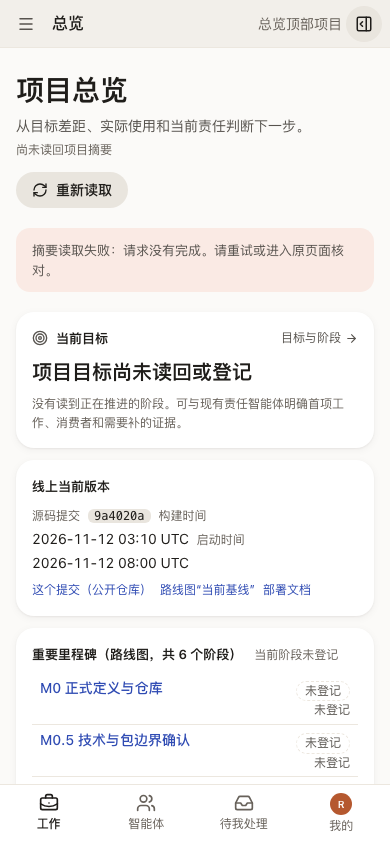
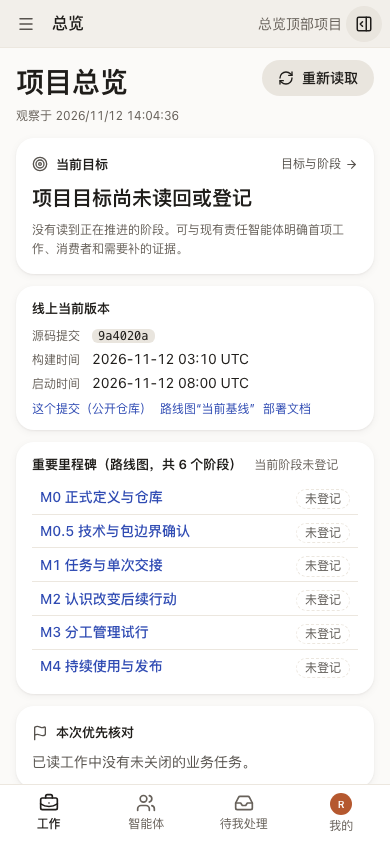
总览顶部返工：390×844 首屏含全部 6 个阶段；已退出/已回看经真实 stage.review.correct 可达

diff --git a/apps/workbench/src/features/overview/MilestonesBlock.tsx b/apps/workbench/src/features/overview/MilestonesBlock.tsx
@@ -5,7 +5,7 @@ import { useProjectQuery } from "../../shared/query";
 import { href } from "../../shared/ui/shared";
 import { NOT_REGISTERED, milestoneRows, versionView } from "./milestonesPresentation";
 
-const card = "flex min-w-0 flex-col gap-2 rounded-xl bg-raised p-4 shadow-sm compact:p-5";
+const card = "flex min-w-0 flex-col gap-1.5 rounded-xl bg-raised px-4 py-3 shadow-sm compact:gap-2 compact:p-5";
 const muted = "text-caption text-muted-foreground";
 const heading = "text-label font-semibold text-foreground";
 const toneClass = { done: "bg-success-soft text-success", progress: "bg-selected text-primary", partial: "bg-warning-soft text-warning", idle: "bg-field text-text-secondary", none: "border border-dashed border-border text-text-secondary" } as const;
@@ -21,7 +21,7 @@ export function MilestonesBlock({ projectId, active }: { projectId: string; acti
       <section className={card} aria-label="线上当前版本" data-overview-version="">
         <h2 className={heading}>线上当前版本</h2>
         {version.isPending && <p className={muted} role="status">正在读取版本…</p>}
-        {!version.isPending && <dl className="m-0 flex flex-wrap items-baseline gap-x-2 gap-y-0.5 text-small @2xl:grid @2xl:grid-cols-[auto_1fr] @2xl:gap-x-3">
+        {!version.isPending && <dl className="m-0 grid grid-cols-[auto_minmax(0,1fr)] items-baseline gap-x-3 gap-y-0.5 text-small">
           <dt className={muted}>源码提交</dt><dd className="m-0">{v.readable ? <code className="rounded-sm bg-field px-1.5 font-mono text-caption">{v.commit}</code> : <span className="text-text-secondary">{v.commit}</span>}</dd>
           <dt className={muted}>构建时间</dt><dd className="m-0 text-foreground">{v.builtAt}</dd>
           <dt className={muted}>启动时间</dt><dd className="m-0 text-foreground">{v.startedAt}</dd>
@@ -39,14 +39,14 @@ export function MilestonesBlock({ projectId, active }: { projectId: string; acti
             <span>阶段</span><span>要交付什么</span><span>退出证据</span><span>状态</span><span>节点日期</span></div>
           <ol className="m-0 flex list-none flex-col p-0">
             {rows.map(row => <li key={row.id} data-phase={row.id} data-current={row.current ? "true" : undefined} aria-current={row.current ? "step" : undefined}
-              className={`grid grid-cols-[minmax(0,1fr)_auto] gap-x-2 border-t border-border px-2 py-1 first:border-t-0 @3xl:grid-cols-[9rem_minmax(0,1.2fr)_minmax(0,1.5fr)_6rem_7rem] @3xl:gap-x-3 ${row.current ? "bg-selected shadow-[inset_3px_0_0_var(--accent)]" : ""}`}>
+              className={`grid grid-cols-[minmax(0,1fr)_auto] items-center @sm:grid-cols-[minmax(0,1fr)_auto_7.5rem] gap-x-2 border-t border-border px-2 py-1 first:border-t-0 @3xl:grid-cols-[9rem_minmax(0,1.2fr)_minmax(0,1.5fr)_6rem_7rem] @3xl:gap-x-3 ${row.current ? "bg-selected shadow-[inset_3px_0_0_var(--accent)]" : ""}`}>
               <span className="col-start-1 row-start-1 min-w-0 text-small font-medium @3xl:col-start-1 @3xl:row-start-1">
                 <a className="text-primary hover:underline" href={href(projectId, "journey")}>{row.id} {row.title}</a>
                 {row.current && <span className="ml-1 text-caption font-semibold text-primary">当前</span>}</span>
               <span className={`${row.current ? "" : "hidden @3xl:block "}col-start-1 row-start-2 line-clamp-1 text-caption text-text-secondary @3xl:col-start-2 @3xl:row-start-1 @3xl:line-clamp-2 @3xl:text-small`}><span className="@3xl:hidden">交付：</span>{row.deliver}</span>
-              <span className={`${row.current ? "" : "hidden @3xl:block "}col-span-2 col-start-1 row-start-3 line-clamp-1 text-caption text-text-secondary @3xl:col-span-1 @3xl:col-start-3 @3xl:row-start-1 @3xl:line-clamp-2 @3xl:text-small`}><span className="@3xl:hidden">退出证据：</span>{row.exit}</span>
+              <span className={`${row.current ? "" : "hidden @3xl:block "}col-span-2 @sm:col-span-3 col-start-1 row-start-3 line-clamp-1 text-caption text-text-secondary @3xl:col-span-1 @3xl:col-start-3 @3xl:row-start-1 @3xl:line-clamp-2 @3xl:text-small`}><span className="@3xl:hidden">退出证据：</span>{row.exit}</span>
               <span className="col-start-2 row-start-1 justify-self-end @3xl:col-start-4 @3xl:row-start-1 @3xl:justify-self-start"><span className={`inline-block whitespace-nowrap rounded-full px-2 text-caption ${toneClass[row.tone]}`}>{row.status}</span></span>
-              <span className="col-start-2 row-start-2 justify-self-end whitespace-nowrap text-caption text-text-secondary @3xl:col-start-5 @3xl:row-start-1 @3xl:justify-self-start @3xl:text-small">{row.date === NOT_REGISTERED ? NOT_REGISTERED : row.date}</span>
+              <span className="hidden @sm:block @sm:col-start-3 @sm:row-start-1 col-start-2 row-start-2 justify-self-end whitespace-nowrap text-caption text-text-secondary @3xl:col-start-5 @3xl:row-start-1 @3xl:justify-self-start @3xl:text-small">{row.date === NOT_REGISTERED ? NOT_REGISTERED : row.date}</span>
             </li>)}
           </ol></>}
       </section>

diff --git a/apps/workbench/test/overview-top-browser.test.ts b/apps/workbench/test/overview-top-browser.test.ts
@@ -38,7 +38,7 @@ test("overview top: goal, version, six phases with one current, the three blocks
           else value = { commit: "9a4020a5886be01b2d74fe850687ca7355b2d226", builtAt: "2026-11-12T03:10:00.000Z", startedAt: stamp };
         }
         else if (url.pathname === base) value = { id: projectId, title: "总览顶部项目", createdAt: stamp };
-        else if (url.pathname === `${base}/impacts`) value = [];
+        else if (url.pathname === `${base}/impacts` || url.pathname === `${base}/resident-queues`) value = [];
         else if (url.pathname === `${base}/goals`) value = { items: mode === "day1" ? [] : [{ projectId, id: goalId, version: 1, outcome: "让使用者一眼看清项目要去哪里", constraints: "数据来自服务", consumer: "使用者",
           authority: "负责人", scope: "总览", owner: "o", createdAt: stamp, actorId: "reader" }], nextCursor: null };
         else if (url.pathname === `${base}/stages`) value = mode === "day1" ? [] : [{ projectId, id: stageId, goalId, version: 2, state: "active", deliverable: "总览顶部", learningQuestion: "看得清吗", createdAt: stamp, actorId: "reader" }];
@@ -102,15 +102,13 @@ test("overview top: goal, version, six phases with one current, the three blocks
       const links = await page.locator("[data-overview-version] a").evaluateAll(items => items.map(item => item.getAttribute("href")));
       assert.deepEqual(links, ["https://github.com/cyl19970726/evoLoop/commit/9a4020a5886be01b2d74fe850687ca7355b2d226", "https://github.com/cyl19970726/evoLoop/blob/main/docs/roadmap.md#当前基线", "https://github.com/cyl19970726/evoLoop/blob/main/docs/development/local-run.md"]);
       assert.ok((await page.locator("[data-phase][data-current]").innerText()).includes("退出证据"), "the current phase shows its exit evidence");
-      for (const word of ["部分成立", "已退出", "进行中", "未开始", "回看于 2026-11-10", "未登记"]) assert.ok(text.includes(word), word);
+      for (const word of ["部分成立", "已退出", "进行中", "未开始", ...(width >= 1000 ? ["回看于 2026-11-10", "未登记"] : [])]) assert.ok(text.includes(word), word);
       if (shots) { await page.screenshot({ path: `${shots}/overview-top-${width}.png` }); await page.screenshot({ path: `${shots}/overview-top-${width}-full.png`, fullPage: true }); }
       const m = await measure(page, `linked ${width}x${height}`);
       assert.equal(m.scrollWidth <= m.clientWidth, true, `no horizontal overflow at ${width}`);
       assert.equal(m.pastRightEdge, 0, "nothing past the right edge");
-      // 1440x900: everything through the last phase is on the first screen. 390x844: the page's own header, the goal card and the version fill the screen
-      // (the design drew them smaller than the real page: docs/frontend/overview-top-design.md), so the milestones start below the fold and all six rows fit in one more screen.
-      if (width >= 1000) assert.ok(m.lastPhaseBottom <= height, `all six phases are on the first screen at ${width}x${height} (last bottom ${m.lastPhaseBottom})`);
-      else { assert.ok(m.versionBottom! <= height, "the goal and version are on the first screen on a phone"); assert.ok(m.lastPhaseBottom <= height * 2, "the six phases fit in the second screen"); }
+            // The phone's bottom tab bar (about 64px) covers the lower edge of the screen, so "on the first screen" means above it.
+      assert.ok(m.lastPhaseBottom <= height - (width >= 1000 ? 0 : 64), `all six phases are on the first screen at ${width}x${height} (last bottom ${m.lastPhaseBottom})`);
       assert.ok(m.goalBottom! < m.versionBottom! + 1, "the goal is above the version and milestones");
       assert.ok(m.attentionTop >= m.milestonesBottom!, "the three blocks sit below the milestones");
       for (const label of ["本次优先核对", "最近使用反馈"]) assert.ok(await page.getByLabel(label).count() === 1, label);
@@ -120,7 +118,7 @@ test("overview top: goal, version, six phases with one current, the three blocks
     const day1 = await open(390, 844, "day1");
     assert.equal(await day1.locator("[data-overview-milestones] [data-current='true']").count(), 0, "no guess at a current phase");
     assert.equal(await day1.locator("[data-current-note]").innerText(), "当前阶段未登记");
-    assert.equal((await day1.locator("[data-overview-milestones]").innerText()).match(/未登记/g)!.length >= 12, true, "status and date of all six phases say 未登记");
+    assert.equal((await day1.locator("[data-overview-milestones]").innerText()).match(/未登记/g)!.length >= 6, true, "the status of all six phases says 未登记");
     assert.doesNotMatch(await day1.locator("[data-overview-milestones]").innerText(), /部分成立|已退出|进行中|回看于/);
     await measure(day1, "day1 390x844");
     if (shots) await day1.screenshot({ path: `${shots}/overview-top-390-day1.png` });

diff --git a/tests/integration/stage-phase-key.test.ts b/tests/integration/stage-phase-key.test.ts
@@ -48,6 +48,21 @@ test("a stage is linked to a roadmap phase by review permission only; the link i
   const m1 = links.find(item => item.phaseKey === "M1")!;
   assert.equal(m1.state, "reviewed"); assert.equal(m1.review?.adopted, "The deliverable works"); assert.ok(m1.review?.createdAt);
   assert.equal(milestoneStatus(m1, m1.review), "partial", "an adopted result with a gap is partial");
+  // Reachable through the real commands: a correction that says nothing is refused and no gap is left reads 已退出; reviews are append-only.
+  const [original] = await workflow.listStageReviews(reviewer, projectId, first);
+  const stageNow = await workflow.getStage(reviewer, projectId, first);
+  await applied(reviewer, { type: "stage.review.correct", stageId: first, expectedVersion: stageNow.version, supersedesReviewId: original!.id, adopted: "The deliverable works",
+    rejected: "无", gap: "没有", nextChoice: "continue", evidence: "e", reason: "the gap was closed" });
+  const corrected = (await workflow.listStagePhaseLinks(reviewer, projectId)).find(item => item.phaseKey === "M1")!;
+  assert.equal(corrected.review?.gap, "没有");
+  assert.equal(milestoneStatus(corrected, corrected.review), "exited", "a real stage.review.correct that names no rejection and no gap reaches 已退出");
+  assert.equal((await workflow.listStageReviews(reviewer, projectId, first)).length, 2, "the original review is kept");
+  // The reverse: a real review that adopted nothing ("无") reads 已回看.
+  await applied(reviewer, { type: "stage.review.correct", stageId: first, expectedVersion: (await workflow.getStage(reviewer, projectId, first)).version,
+    supersedesReviewId: (await workflow.listStageReviews(reviewer, projectId, first)).find(r => r.supersedesReviewId)!.id, adopted: "无", rejected: "Refused it", gap: "A gap",
+    nextChoice: "stop", evidence: "e", reason: "nothing was adopted" });
+  const reread = (await workflow.listStagePhaseLinks(reviewer, projectId)).find(item => item.phaseKey === "M1")!;
+  assert.equal(milestoneStatus(reread, reread.review), "reviewed", "a real review that adopted nothing is only 已回看");
   // Re-linking changes the phase of the same stage; null clears it; the stage itself is untouched.
   await applied(reviewer, { type: "stage.phaseKey.set", stageId: first, phaseKey: "M2", reason: "remap" });
   assert.deepEqual((await workflow.listStagePhaseLinks(reviewer, projectId)).map(item => item.phaseKey), ["M0.5", "M2"]);

diff --git a/apps/workbench/src/features/overview/ProjectContext.tsx b/apps/workbench/src/features/overview/ProjectContext.tsx
@@ -147,9 +147,9 @@ export function ProjectContext({ token, projectId, refresh, active }: { token: s
           {stages.map(item => <option key={item.id} value={item.id}>{item.deliverable}</option>)}
         </Select>
       </label>}
-      {stage ? <dl className="grid gap-3 compact:grid-cols-2">
-        <div><dt className={muted}>阶段交付</dt><dd className="m-0 text-small text-foreground">{stage.deliverable}</dd></div>
-        <div><dt className={muted}>要弄清的问题</dt><dd className="m-0 text-small text-foreground">{stage.learningQuestion}</dd></div>
+      {stage ? <dl className="grid grid-cols-2 gap-x-3 gap-y-1 compact:gap-3">
+        <div><dt className={muted}>阶段交付</dt><dd className="m-0 line-clamp-2 text-small text-foreground compact:line-clamp-none">{stage.deliverable}</dd></div>
+        <div><dt className={muted}>要弄清的问题</dt><dd className="m-0 line-clamp-2 text-small text-foreground compact:line-clamp-none">{stage.learningQuestion}</dd></div>
       </dl> : <p className={muted}>{value && !value.goalProblem && stages.length === 0 ? "没有读到正在推进的阶段。可与现有责任智能体明确首项工作、消费者和需要补的证据。" : "按真实阶段关系阅读，不从最近任务或队列推定项目目标。"}</p>}
       {goal && <details className="text-small"><summary className="cursor-pointer text-text-secondary">目标的消费者、约束与范围</summary><div className="mt-2 flex flex-col gap-1 text-text-secondary"><p>消费者：{goal.consumer} · 责任：{isRoleOwnerId(goal.owner) ? <RoleName projectId={projectId} roleId={goal.owner} /> : goal.owner}</p><p>{goal.constraints}</p><p>{goal.scope}</p></div></details>}
       {value?.goalProblem && <div className={problem} role="status">目标与阶段读取未完成，已读工作仍可查看。<details><summary className="cursor-pointer">读取原因</summary>{value.goalProblem}</details></div>}

diff --git a/packages/contracts/src/milestones.ts b/packages/contracts/src/milestones.ts
@@ -12,6 +12,16 @@ export const milestoneStatusLabel: Record<MilestoneStatus, string> = {
 export interface MilestoneReview { adopted: string; rejected: string; gap: string; createdAt: string }
 
 /**
+ * `stage.review` / `stage.correct` require text in adopted, rejected and gap, so "nothing" can only be written as a word. A field that is just
+ * one of these markers (alone, ignoring spaces and a closing full stop) counts as empty; a sentence that merely contains one does not.
+ */
+const NONE_MARKERS = new Set(["无", "没有", "暂无", "无缺口", "无拒绝", "无遗漏", "none", "nil", "n/a", "na", "-", "—", "–"]);
+export function isNoneMarker(value: string): boolean {
+  const text = value.trim().replace(/[。.]+$/, "").trim().toLowerCase();
+  return text.length === 0 || NONE_MARKERS.has(text);
+}
+
+/**
  * A linked stage's milestone status, from the same fields the goals-and-stages page shows (its state and latest review).
  * `exited`: reviewed, something adopted, and neither a gap nor a rejection left. `partial`: something adopted and a gap or a rejection
  * remains. Any other reviewed stage is only 已回看: the conclusion is on the stage page, nothing is inferred from it.
@@ -19,7 +29,7 @@ export interface MilestoneReview { adopted: string; rejected: string; gap: strin
 export function milestoneStatus(stage: { state: "proposed" | "active" | "reviewed" }, review: MilestoneReview | null): MilestoneStatus {
   if (stage.state === "proposed") return "not_started";
   if (stage.state === "active") return "in_progress";
-  const filled = (value: string | undefined) => !!value && value.trim().length > 0;
+  const filled = (value: string | undefined) => !!value && !isNoneMarker(value);
   if (review && filled(review.adopted)) return filled(review.gap) || filled(review.rejected) ? "partial" : "exited";
   return "reviewed";
 }

diff --git a/apps/workbench/src/features/overview/ProjectSummary.tsx b/apps/workbench/src/features/overview/ProjectSummary.tsx
@@ -200,11 +200,11 @@ export function ProjectSummary({ token, projectId, refresh, active }: { token: s
   const read = current ? `观察于 ${date(current.observedAt)}${stale ? " · 上次读回，当前状态待核对" : ""}` : pending ? "正在读取项目摘要…" : "尚未读回项目摘要";
   const empty = (text: string) => <p className={muted}>{text}</p>;
   const card = "flex min-w-0 flex-col rounded-xl bg-raised px-4 py-3 shadow-sm compact:px-5";
-  return <div data-ui="" className="project-overview mx-auto flex w-full max-w-[980px] flex-col gap-5 px-4 py-5 compact:px-8 compact:py-7">
-    <header className="flex flex-wrap items-start justify-between gap-3">
+  return <div data-ui="" className="project-overview mx-auto flex w-full max-w-[980px] flex-col gap-3 px-4 py-3 compact:gap-5 compact:px-8 compact:py-7">
+    <header className="flex items-start justify-between gap-3 compact:flex-wrap">
       <div className="min-w-0">
         <h1 className="text-title font-semibold text-foreground" tabIndex={-1}>项目总览</h1>
-        <p className="mt-1 text-small text-text-secondary">从目标差距、实际使用和当前责任判断下一步。</p>
+        <p className="mt-1 hidden text-small text-text-secondary compact:block">从目标差距、实际使用和当前责任判断下一步。</p>
         <p className={cn(muted, "mt-1")}>{read}</p>
       </div>
       <Button onClick={() => setReread(value => value + 1)} disabled={pending}><RefreshCw aria-hidden="true" className={pending ? "animate-spin" : undefined} />重新读取</Button>

diff --git a/apps/coordinator/test/milestones.test.ts b/apps/coordinator/test/milestones.test.ts
@@ -29,6 +29,11 @@ test("exited needs something adopted and neither a gap nor a rejection; only a r
   assert.equal(milestoneStatus(reviewed, review("", "refused", "")), "reviewed", "only a rejection and nothing adopted is not an exit either");
   assert.equal(milestoneStatus(reviewed, review("  ", "", "")), "reviewed");
   assert.equal(milestoneStatus(reviewed, null), "reviewed");
+  // The commands require text in all three fields, so "nothing" is written as a word: those count as empty, and nothing else does.
+  for (const none of ["无", "没有", "暂无", "无。", " 无缺口 ", "None", "n/a", "N/A", "—", "-"]) assert.equal(milestoneStatus(reviewed, review("it works", none, none)), "exited", `"${none}" means none`);
+  assert.equal(milestoneStatus(reviewed, review("it works", "无", "没有完全解决，剩下一项")), "partial", "a sentence that merely starts with 没有 is a gap");
+  assert.equal(milestoneStatus(reviewed, review("it works", "Nothing refused", "None left")), "partial", "only the bare marker counts, not a sentence");
+  assert.equal(milestoneStatus(reviewed, review("无", "无", "无")), "reviewed", "nothing adopted is only 已回看");
   assert.equal(milestoneStatus({ state: "active" }, review("a", "", "")), "in_progress");
   assert.equal(milestoneStatus({ state: "proposed" }, null), "not_started");
 });

diff --git a/docs/frontend/overview-top-design.md b/docs/frontend/overview-top-design.md
@@ -36,7 +36,7 @@ Task `e5af6765`（2026-11-12 返工）。使用者要从总览一眼看清三件
 | 节点日期 | 关联阶段最近一次回看的日期（写作“回看于 日期”） | “未登记”；不从路线图的文字里推日期 |
 | 当前阶段 | 恰有一个关联阶段是 `active` 时，它对应的那一行 | 没有或有多个：不突出，页眉写“当前阶段未登记”，不猜 |
 
-**状态映射**（与目标与阶段页同一份数据，同一套词）：`proposed` → 未开始；`active` → 进行中；`reviewed` 且最近回看里 `adopted` 非空、`gap` 或 `rejected` 非空 → 部分成立；`reviewed` 且 `gap` 为空 → 已退出；其余 `reviewed` → 已回看（结论见阶段页）。“部分成立”只在回看记录真的写了采纳和缺口时才出现。
+**状态映射**（与目标与阶段页同一份数据，同一套词；需求 Session 已确认）：`proposed` → 未开始；`active` → 进行中；`reviewed` 且最近回看 `adopted` 非空、`gap` 与 `rejected` 都为空 → 已退出；`adopted` 非空且 `gap` 或 `rejected` 非空 → 部分成立；其余 `reviewed` → 已回看（结论见阶段页）。没有关联的阶段、或有多个进行中的阶段，一律写“未登记”，不猜。命令要求三项都有文字，“空”如何写见文末“‘已退出/已回看’如何经真实命令到达”。
 
 **新增只读投影** `GET /api/projects/:projectId/milestones`（项目读权限）：返回 `{ source: { commit }, phases: [{ id, title, deliver, exit, stage: { id, state, review: { adopted, gap, createdAt } } | null }] }`。路线图由服务启动时读取已部署目录里的 `docs/roadmap.md`（与版本接口同一提交），不放进文档表，也不在前端写死；页面和“目标与阶段”页读同一份阶段，所以两页不会各算一遍。
 
@@ -85,4 +85,11 @@ Task `e5af6765`（2026-11-12 返工）。使用者要从总览一眼看清三件
 
 ## 真实页面实测（实现后）
 
-真实页面截图与量到的数据：[1440 首屏](../assets/frontend-pages/overview-top-1440.png)、[1440 整页](../assets/frontend-pages/overview-top-1440-full.png)、[390 整页](../assets/frontend-pages/overview-top-390-full.png)、[390 第一天](../assets/frontend-pages/overview-top-390-day1.png)、[实测数据](../assets/frontend-pages/overview-top-real-measure.json)。1440×900：目标、版本和 6 个阶段都在首屏（最后一个阶段底边 781），无水平溢出。**与设计的差异**：390×844 里真实页面自带的页头、标题和目标卡片比设计图大（目标卡底边 533，设计图 136），版本在首屏，6 个阶段在第二屏内（最后一行底边 1089），没有做到“全部在首屏”；手机上只有当前阶段展开“交付/退出证据”。
+真实页面截图与量到的数据：[1440 首屏](../assets/frontend-pages/overview-top-1440.png)、[1440 整页](../assets/frontend-pages/overview-top-1440-full.png)、[390 首屏](../assets/frontend-pages/overview-top-390.png)、[390 整页](../assets/frontend-pages/overview-top-390-full.png)、[390 第一天](../assets/frontend-pages/overview-top-390-day1.png)、[实测数据](../assets/frontend-pages/overview-top-real-measure.json)。
+
+- 1440×900：目标、版本、6 个阶段都在首屏（最后阶段底边 624），无水平溢出。
+- 390×844：目标、版本、6 个阶段都在底部标签栏（约 64px）之上（最后阶段底边 752），无水平溢出。为此在手机宽度下：页面副标题收起；目标卡里“阶段交付/要弄清的问题”并排、各最多两行；版本块三行标签对齐；阶段行只留一行（阶段名与状态），只有当前阶段展开“交付/退出证据”，节点日期在放得下时才显示。
+
+## “已退出/已回看”如何经真实命令到达
+
+`stage.review` / `stage.review.correct` 要求采纳、拒绝、缺口三项都有文字，所以“没有拒绝、没有缺口”只能写成一个词。判定时，某项**整段**是“无 / 没有 / 暂无 / 无缺口 / 无拒绝 / 无遗漏 / none / nil / n/a / - / —”（忽略首尾空格和结尾句号）就当作空；含这些词的整句话（如“没有完全解决，剩下一项”）不算空。于是：采纳有内容、拒绝与缺口都写“无” → 已退出；采纳有内容、拒绝或缺口之一有内容 → 部分成立；采纳写“无” → 已回看。回看记录仍只追加；`stage.review.correct` 追加一条即可让阶段从部分成立变为已退出。真实 PG 测试 `tests/integration/stage-phase-key.test.ts` 用这两条真实命令覆盖。**这是对需求 Session 已确认的 3 条规则的补充解释，待需求 Session 确认。**
